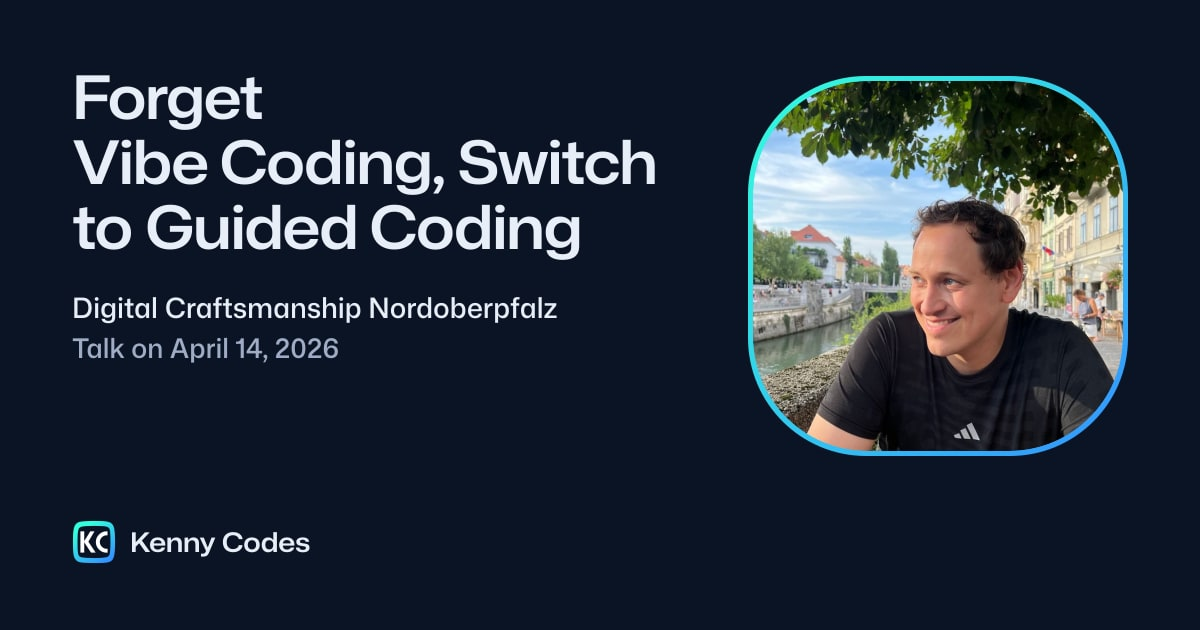
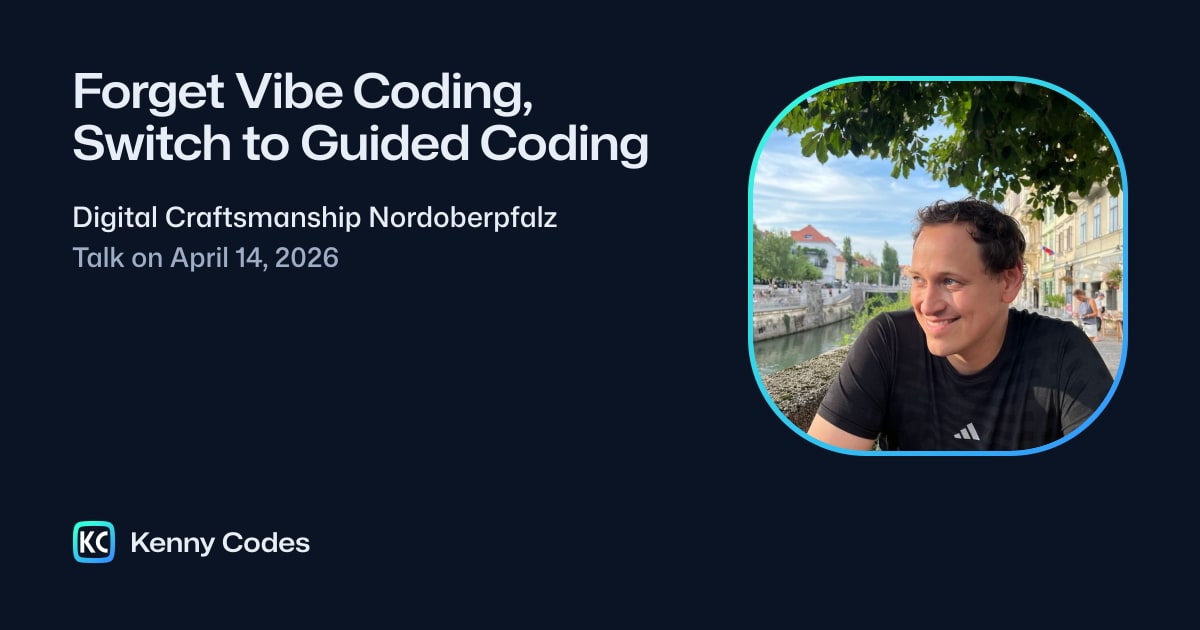
fix(social-cards): address the sixth review round
- Give ten docs pages a description. Without the removed site-wide
  description, their previews showed a heading such as "TL;DR"
  instead. The wording is drafted from each page's opening.
- Use `property` for the remaining Open Graph tags and drop the
  site-wide og:type and og:locale, which contradicted the per-page
  values Docusaurus emits (e.g. og:type "article" on blog posts).
- Skip drafts before reading anything else from them, so an undated
  draft no longer stops the run, and let highlights name draft pages.
- Remove a card's temporary file whatever happens, and sweep stray
  ones; escape the event type in the format-word pattern.
- A trailing comma counts as a natural line break: "Forget Vibe
  Coding, / Switch to Guided Coding".

Changed region(s): [[0.0617, 0.0905, 0.555, 0.4222], [0.0617, 0.4524, 0.4625, 0.573]]

diff --git a/scripts/generate-social-cards.ts b/scripts/generate-social-cards.ts
@@ -64,6 +64,8 @@ const CARD_EXTENSION = ".jpg";
  * custom image, and stale PNG cards are removed.
  */
 const LEGACY_CARD_EXTENSION = ".png";
+/** A card being written; never published, removed after every run. */
+const TEMPORARY_EXTENSION = ".tmp";
 const JPEG_OPTIONS = { quality: 88, mozjpeg: true } as const;
 const DEFAULT_SOCIAL_CARD_PATH = path.join(
   STATIC_DIR,
@@ -139,7 +141,6 @@ interface ContentItem {
   event?: string;
   /** The `image` frontmatter as Docusaurus reads it. */
   image?: string;
-  draft: boolean;
 }
 
 /**
@@ -336,16 +337,27 @@ function getStringField(frontmatter: Frontmatter, key: string): string | undefin
  * Converts all markdown files below a content root into normalized `ContentItem`
  * objects.
  */
-async function discoverContent(dirPath: string, kind: ContentKind): Promise<ContentItem[]> {
+async function discoverContent(
+  dirPath: string,
+  kind: ContentKind
+): Promise<{ items: ContentItem[]; draftSlugs: string[] }> {
   const files = await getAllMarkdownFiles(dirPath);
+  const draftSlugs: string[] = [];
 
   const items = await Promise.all(
-    files.map(async (filePath) => {
+    files.map(async (filePath): Promise<ContentItem | undefined> => {
       const { frontMatter: frontmatter, contentTitle } = await parseMarkdownFile({
         filePath,
         fileContent: await fs.readFile(filePath, "utf8"),
         parseFrontMatter: DEFAULT_PARSE_FRONT_MATTER,
       });
+
+      // Drafts are left out of the production build, so they get no public card either. Nothing
+      // else is read from them: a draft may still lack a date.
+      if (isDraft({ frontMatter: frontmatter, env: "production" })) {
+        draftSlugs.push(deriveSlug(filePath, frontmatter, kind));
+        return undefined;
+      }
 
       return {
         filePath,
@@ -361,12 +373,10 @@ async function discoverContent(dirPath: string, kind: ContentKind): Promise<Cont
         type: getStringField(frontmatter, "type"),
         event: getStringField(frontmatter, "event"),
         image: getStringField(frontmatter, "image"),
-        // Drafts are left out of the production build, so they get no public card either.
-        draft: isDraft({ frontMatter: frontmatter, env: "production" }),
       };
     })
   );
-  return items.filter((item) => !item.draft);
+  return { items: items.filter((item) => item !== undefined), draftSlugs };
 }
 
 /**
@@ -438,6 +448,10 @@ function fitLine(
     text: text === value ? value : `${text.replace(/[\s,.:;/-]+$/u, "")}\u2026`,
     fontSize,
   };
+}
+
+function escapeRegExp(text: string): string {
+  return text.replace(/[.*+?^${}()|[\]\\]/gu, "\\$&");
 }
 
 /** Words in an event's name or title that already say what kind of event it is. */
@@ -547,7 +561,7 @@ function buildCardModel(item: ContentItem, assets: SocialCardAssets): SocialCard
   // "Thinktecture Webinar", "Visiting Lecture" or "Async Workshop: …" already say what it is: the
   // date alone follows. Whole words only: "Talking to LLMs" is no "Talk".
   const saysType = [type, ...FORMAT_WORDS].some((word) =>
-    new RegExp(`(^|[^\\p{L}])${word}($|[^\\p{L}])`, "iu").test(`${event} ${title}`)
+    new RegExp(`(^|[^\\p{L}])${escapeRegExp(word)}($|[^\\p{L}])`, "iu").test(`${event} ${title}`)
   );
   const [primary, secondary] =
     item.kind === "blog"
@@ -811,7 +825,7 @@ async function main(): Promise<void> {
   const startTime = performance.now();
   await fs.mkdir(OUTPUT_DIR, { recursive: true });
 
-  const [assets, previousManifest, blogItems, eventItems, docsItems] = await Promise.all([
+  const [assets, previousManifest, blog, events, docs] = await Promise.all([
     loadAssets(),
     loadManifest(),
     discoverContent(BLOG_DIR, "blog"),
@@ -819,13 +833,15 @@ async function main(): Promise<void> {
     discoverContent(DOCS_DIR, "docs"),
   ]);
 
-  const items = [...blogItems, ...eventItems, ...docsItems];
+  const items = [...blog.items, ...events.items, ...docs.items];
+  const docsSlugs = [...docs.items.map((item) => item.slug), ...docs.draftSlugs];
   // A highlight for a page that no longer exists means the page was renamed: say so.
-  for (const docs of DOCS_SECTIONS) {
-    for (const page of Object.keys(docs.highlights)) {
-      if (!docsItems.some((item) => item.slug === `${docs.prefix}/${page}`)) {
+  // Drafts count as pages here: they may be highlighted before they are published.
+  for (const section of DOCS_SECTIONS) {
+    for (const page of Object.keys(section.highlights)) {
+      if (!docsSlugs.includes(`${section.prefix}/${page}`)) {
         throw new Error(
-          `DOCS_SECTIONS highlights "${docs.prefix}/${page}", which is not a docs page.`
+          `DOCS_SECTIONS highlights "${section.prefix}/${page}", which is not a docs page.`
         );
       }
     }
@@ -893,10 +909,15 @@ async function main(): Promise<void> {
       if (previousManifest.items[item.slug] === currentHash && outputAlreadyExists) {
         cachedCount += 1;
       } else {
-        // Through a temporary file, so a failed write never leaves a half-written card.
-        const temporaryPath = `${absoluteOutputPath}.tmp`;
-        await fs.writeFile(temporaryPath, await renderCard(model, assets));
-        await fs.rename(temporaryPath, absoluteOutputPath);
+        // Through a temporary file, so a failed write never leaves a half-written card. The
+        // temporary file is removed either way; the sweep below also catches one left by a crash.
+        const temporaryPath = `${absoluteOutputPath}${TEMPORARY_EXTENSION}`;
+        try {
+          await fs.writeFile(temporaryPath, await renderCard(model, assets));
+          await fs.rename(temporaryPath, absoluteOutputPath);
+        } finally {
+          await fs.rm(temporaryPath, { force: true });
+        }
         generatedCount += 1;
       }
       nextManifest.items[item.slug] = currentHash;
@@ -916,6 +937,10 @@ async function main(): Promise<void> {
   let removedCount = 0;
 
   for (const fileName of existingOutputFiles) {
+    if (fileName.endsWith(TEMPORARY_EXTENSION)) {
+      await fs.rm(path.join(OUTPUT_DIR, fileName), { force: true });
+      continue;
+    }
     if (!fileName.endsWith(CARD_EXTENSION) && !fileName.endsWith(LEGACY_CARD_EXTENSION)) {
       continue;
     }

diff --git a/docusaurus.config.ts b/docusaurus.config.ts
@@ -175,24 +175,17 @@ const config: Config = {
         content: "telephone=no, address=no, email=no",
       },
       {
-        name: "og:site_name",
+        // Open Graph reads `property`; Docusaurus emits its own og: tags the same way.
+        property: "og:site_name",
         content: "Kenny Codes",
       },
       {
-        name: "og:locale",
-        content: "en_IE",
-      },
-      {
-        name: "og:image:width",
+        property: "og:image:width",
         content: "1200",
       },
       {
-        name: "og:image:height",
+        property: "og:image:height",
         content: "630",
-      },
-      {
-        name: "og:type",
-        content: "website",
       },
       {
         name: "twitter:card",

diff --git a/scripts/social-card-template.tsx b/scripts/social-card-template.tsx
@@ -233,7 +233,7 @@ function linePenalty(
   if (!isLast && CONNECTOR_WORDS.has(bare(last))) penalty += 250;
   if (units[0].text === "&") penalty += 450; // "&" belongs to the line before
   if (next && /^\d/u.test(next.text)) penalty += 120; // keeps "Windows 10" together
-  if (!isLast && /[:–—]$/u.test(last)) penalty -= 60; // a natural pause
+  if (!isLast && /[:,–—]$/u.test(last)) penalty -= 60; // a natural pause
   // A lone short word on the last line; short titles may break where they like.
   if (isLast && wordCount > 3 && words.length === 1 && bare(last).length <= 8) penalty += 160;
   // A lone word between two lines: "Software / Applications" reads as a list, not a title.

diff --git a/docs/guided-coding/finding-the-right-plan-size.md b/docs/guided-coding/finding-the-right-plan-size.md
@@ -1,6 +1,7 @@
 ---
 sidebar_position: 11
 title: Finding the Right Plan Size
+description: "How large should a plan be? The signs of a plan that is too small or too large, and why your review sets the limit, not the model."
 image: /img/social-cards/docs-guided-coding-finding-the-right-plan-size.jpg
 ---
 

diff --git a/docs/guided-coding/rules-files.md b/docs/guided-coding/rules-files.md
@@ -1,6 +1,7 @@
 ---
 sidebar_position: 10
 title: What Belongs in a Rules File
+description: "What belongs in a rules file like AGENTS.md: only what an agent cannot discover from the code itself, such as workflow rules and feedback loops."
 image: /img/social-cards/docs-guided-coding-rules-files.jpg
 ---
 

diff --git a/docs/chack/building-blocks.md b/docs/chack/building-blocks.md
@@ -1,6 +1,7 @@
 ---
 sidebar_position: 7
 title: Building Blocks of a Backend Feature
+description: "The building blocks you meet in every backend feature, such as endpoints, DTOs, and validators, and the CHACK category each one belongs to."
 image: /img/social-cards/docs-chack-building-blocks.jpg
 ---
 
